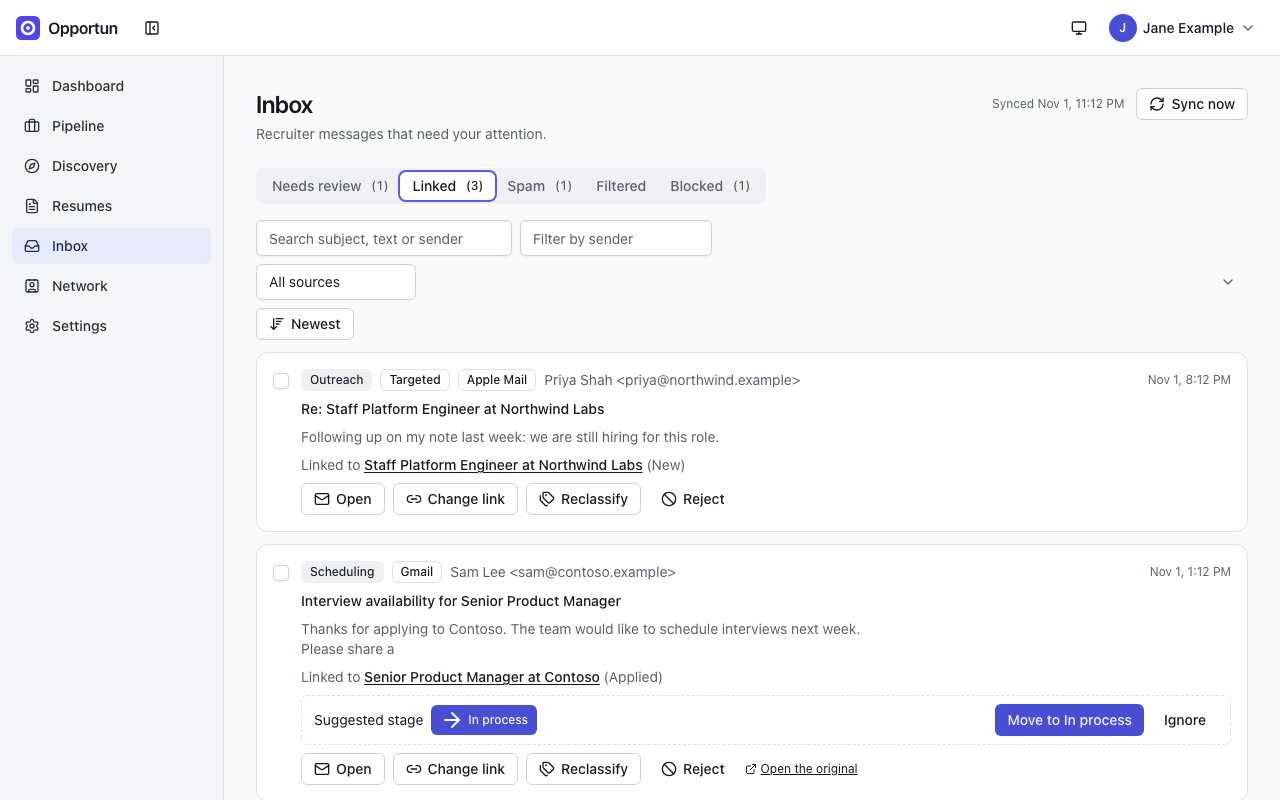
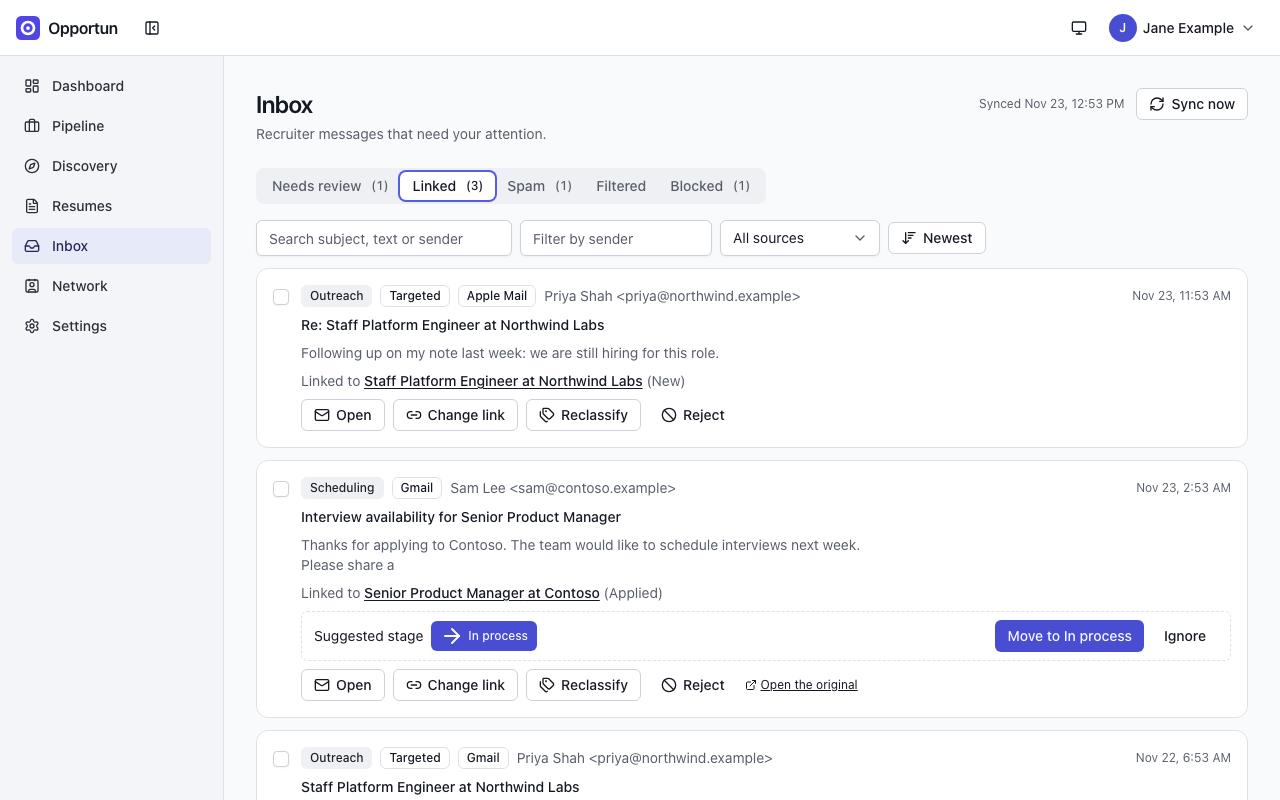
Docs screenshots: the Inbox's filter row, the provider key form and the metrics filters, after the Select fix (Closes #943)

diff --git a/docs/guide/inbox.md b/docs/guide/inbox.md
@@ -87,11 +87,11 @@ one batch, not a promise for yours.
 | Filtered     | Not-a-fit outreach, with the reason it does not fit                                                                                                                            |
 | Blocked      | Messages kept out before classification (see above), each shown with its sender, its date and the rule that decided, and a link to the original where there is one             |
 
-![The Linked tab: a targeted Apple Mail message, and a Gmail interview request with a suggested move to In process](images/inbox-linked.png)
+![The Linked tab: a row of filters above the list (keyword, sender, source and sort order), then a targeted Apple Mail message and a Gmail interview request with a suggested move to In process](images/inbox-linked.png)
 
 _Linked mail with its channel badges (Apple Mail, Gmail). The interview request suggests moving Contoso to In process._
 
-![The Spam tab with one broadcast message and a Not spam button](images/inbox-spam.png)
+![The Spam tab: the row of filters above the list, then one broadcast message with a Not spam button](images/inbox-spam.png)
 
 _Broadcast outreach lands in Spam and never creates an opportunity._
 
